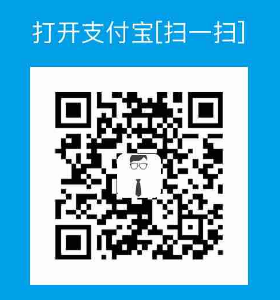
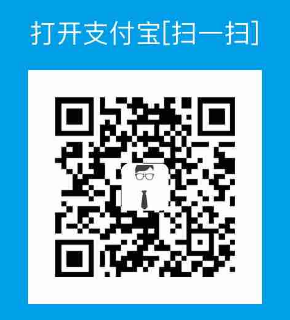
Site updated: 2018-01-07 21:57:52

diff --git a/2017/03/25/cross-project-code-share/index.html b/2017/03/25/cross-project-code-share/index.html
@@ -434,14 +434,14 @@
 
     
       <div id="wechat" style="display: inline-block">
-        <img id="wechat_qr" src="/img/pay/wechatpay.jpg" alt="Beck Jin 微信支付"/>
+        <img id="wechat_qr" src="/img/pay/wechatpay.png" alt="Beck Jin 微信支付"/>
         <p>微信支付</p>
       </div>
     
 
     
       <div id="alipay" style="display: inline-block">
-        <img id="alipay_qr" src="/img/pay/alipay.jpg" alt="Beck Jin 支付宝"/>
+        <img id="alipay_qr" src="/img/pay/alipay.png" alt="Beck Jin 支付宝"/>
         <p>支付宝</p>
       </div>
     

diff --git a/2017/04/16/cross-project-data-share/index.html b/2017/04/16/cross-project-data-share/index.html
@@ -441,14 +441,14 @@
 
     
       <div id="wechat" style="display: inline-block">
-        <img id="wechat_qr" src="/img/pay/wechatpay.jpg" alt="Beck Jin 微信支付"/>
+        <img id="wechat_qr" src="/img/pay/wechatpay.png" alt="Beck Jin 微信支付"/>
         <p>微信支付</p>
       </div>
     
 
     
       <div id="alipay" style="display: inline-block">
-        <img id="alipay_qr" src="/img/pay/alipay.jpg" alt="Beck Jin 支付宝"/>
+        <img id="alipay_qr" src="/img/pay/alipay.png" alt="Beck Jin 支付宝"/>
         <p>支付宝</p>
       </div>
     

diff --git a/2017/04/22/ui-automate-test/index.html b/2017/04/22/ui-automate-test/index.html
@@ -432,14 +432,14 @@
 
     
       <div id="wechat" style="display: inline-block">
-        <img id="wechat_qr" src="/img/pay/wechatpay.jpg" alt="Beck Jin 微信支付"/>
+        <img id="wechat_qr" src="/img/pay/wechatpay.png" alt="Beck Jin 微信支付"/>
         <p>微信支付</p>
       </div>
     
 
     
       <div id="alipay" style="display: inline-block">
-        <img id="alipay_qr" src="/img/pay/alipay.jpg" alt="Beck Jin 支付宝"/>
+        <img id="alipay_qr" src="/img/pay/alipay.png" alt="Beck Jin 支付宝"/>
         <p>支付宝</p>
       </div>
     

diff --git a/2017/05/19/multilingual/index.html b/2017/05/19/multilingual/index.html
@@ -471,14 +471,14 @@
 
     
       <div id="wechat" style="display: inline-block">
-        <img id="wechat_qr" src="/img/pay/wechatpay.jpg" alt="Beck Jin 微信支付"/>
+        <img id="wechat_qr" src="/img/pay/wechatpay.png" alt="Beck Jin 微信支付"/>
         <p>微信支付</p>
       </div>
     
 
     
       <div id="alipay" style="display: inline-block">
-        <img id="alipay_qr" src="/img/pay/alipay.jpg" alt="Beck Jin 支付宝"/>
+        <img id="alipay_qr" src="/img/pay/alipay.png" alt="Beck Jin 支付宝"/>
         <p>支付宝</p>
       </div>
     

diff --git a/2017/07/22/actor-orleans-one/index.html b/2017/07/22/actor-orleans-one/index.html
@@ -475,14 +475,14 @@
 
     
       <div id="wechat" style="display: inline-block">
-        <img id="wechat_qr" src="/img/pay/wechatpay.jpg" alt="Beck Jin 微信支付"/>
+        <img id="wechat_qr" src="/img/pay/wechatpay.png" alt="Beck Jin 微信支付"/>
         <p>微信支付</p>
       </div>
     
 
     
       <div id="alipay" style="display: inline-block">
-        <img id="alipay_qr" src="/img/pay/alipay.jpg" alt="Beck Jin 支付宝"/>
+        <img id="alipay_qr" src="/img/pay/alipay.png" alt="Beck Jin 支付宝"/>
         <p>支付宝</p>
       </div>
     

diff --git a/2017/07/23/actor-orleans-cluster/index.html b/2017/07/23/actor-orleans-cluster/index.html
@@ -401,14 +401,14 @@
 
     
       <div id="wechat" style="display: inline-block">
-        <img id="wechat_qr" src="/img/pay/wechatpay.jpg" alt="Beck Jin 微信支付"/>
+        <img id="wechat_qr" src="/img/pay/wechatpay.png" alt="Beck Jin 微信支付"/>
         <p>微信支付</p>
       </div>
     
 
     
       <div id="alipay" style="display: inline-block">
-        <img id="alipay_qr" src="/img/pay/alipay.jpg" alt="Beck Jin 支付宝"/>
+        <img id="alipay_qr" src="/img/pay/alipay.png" alt="Beck Jin 支付宝"/>
         <p>支付宝</p>
       </div>
     

diff --git a/2017/07/23/actor-orleans-grain-state/index.html b/2017/07/23/actor-orleans-grain-state/index.html
@@ -404,14 +404,14 @@
 
     
       <div id="wechat" style="display: inline-block">
-        <img id="wechat_qr" src="/img/pay/wechatpay.jpg" alt="Beck Jin 微信支付"/>
+        <img id="wechat_qr" src="/img/pay/wechatpay.png" alt="Beck Jin 微信支付"/>
         <p>微信支付</p>
       </div>
     
 
     
       <div id="alipay" style="display: inline-block">
-        <img id="alipay_qr" src="/img/pay/alipay.jpg" alt="Beck Jin 支付宝"/>
+        <img id="alipay_qr" src="/img/pay/alipay.png" alt="Beck Jin 支付宝"/>
         <p>支付宝</p>
       </div>
     

diff --git a/2017/07/30/actor-orleans-streams/index.html b/2017/07/30/actor-orleans-streams/index.html
@@ -429,14 +429,14 @@
 
     
       <div id="wechat" style="display: inline-block">
-        <img id="wechat_qr" src="/img/pay/wechatpay.jpg" alt="Beck Jin 微信支付"/>
+        <img id="wechat_qr" src="/img/pay/wechatpay.png" alt="Beck Jin 微信支付"/>
         <p>微信支付</p>
       </div>
     
 
     
       <div id="alipay" style="display: inline-block">
-        <img id="alipay_qr" src="/img/pay/alipay.jpg" alt="Beck Jin 支付宝"/>
+        <img id="alipay_qr" src="/img/pay/alipay.png" alt="Beck Jin 支付宝"/>
         <p>支付宝</p>
       </div>
     

diff --git a/2017/08/19/actor-orleans-webapi/index.html b/2017/08/19/actor-orleans-webapi/index.html
@@ -430,14 +430,14 @@
 
     
       <div id="wechat" style="display: inline-block">
-        <img id="wechat_qr" src="/img/pay/wechatpay.jpg" alt="Beck Jin 微信支付"/>
+        <img id="wechat_qr" src="/img/pay/wechatpay.png" alt="Beck Jin 微信支付"/>
         <p>微信支付</p>
       </div>
     
 
     
       <div id="alipay" style="display: inline-block">
-        <img id="alipay_qr" src="/img/pay/alipay.jpg" alt="Beck Jin 支付宝"/>
+        <img id="alipay_qr" src="/img/pay/alipay.png" alt="Beck Jin 支付宝"/>
         <p>支付宝</p>
       </div>
     

diff --git a/2017/09/17/vue-family/index.html b/2017/09/17/vue-family/index.html
@@ -397,14 +397,14 @@
 
     
       <div id="wechat" style="display: inline-block">
-        <img id="wechat_qr" src="/img/pay/wechatpay.jpg" alt="Beck Jin 微信支付"/>
+        <img id="wechat_qr" src="/img/pay/wechatpay.png" alt="Beck Jin 微信支付"/>
         <p>微信支付</p>
       </div>
     
 
     
       <div id="alipay" style="display: inline-block">
-        <img id="alipay_qr" src="/img/pay/alipay.jpg" alt="Beck Jin 支付宝"/>
+        <img id="alipay_qr" src="/img/pay/alipay.png" alt="Beck Jin 支付宝"/>
         <p>支付宝</p>
       </div>
     

diff --git a/2017/11/03/actor-orleans-dashboard/index.html b/2017/11/03/actor-orleans-dashboard/index.html
@@ -419,14 +419,14 @@
 
     
       <div id="wechat" style="display: inline-block">
-        <img id="wechat_qr" src="/img/pay/wechatpay.jpg" alt="Beck Jin 微信支付"/>
+        <img id="wechat_qr" src="/img/pay/wechatpay.png" alt="Beck Jin 微信支付"/>
         <p>微信支付</p>
       </div>
     
 
     
       <div id="alipay" style="display: inline-block">
-        <img id="alipay_qr" src="/img/pay/alipay.jpg" alt="Beck Jin 支付宝"/>
+        <img id="alipay_qr" src="/img/pay/alipay.png" alt="Beck Jin 支付宝"/>
         <p>支付宝</p>
       </div>
     

diff --git a/2017/12/10/elk/index.html b/2017/12/10/elk/index.html
@@ -425,14 +425,14 @@
 
     
       <div id="wechat" style="display: inline-block">
-        <img id="wechat_qr" src="/img/pay/wechatpay.jpg" alt="Beck Jin 微信支付"/>
+        <img id="wechat_qr" src="/img/pay/wechatpay.png" alt="Beck Jin 微信支付"/>
         <p>微信支付</p>
       </div>
     
 
     
       <div id="alipay" style="display: inline-block">
-        <img id="alipay_qr" src="/img/pay/alipay.jpg" alt="Beck Jin 支付宝"/>
+        <img id="alipay_qr" src="/img/pay/alipay.png" alt="Beck Jin 支付宝"/>
         <p>支付宝</p>
       </div>
     
